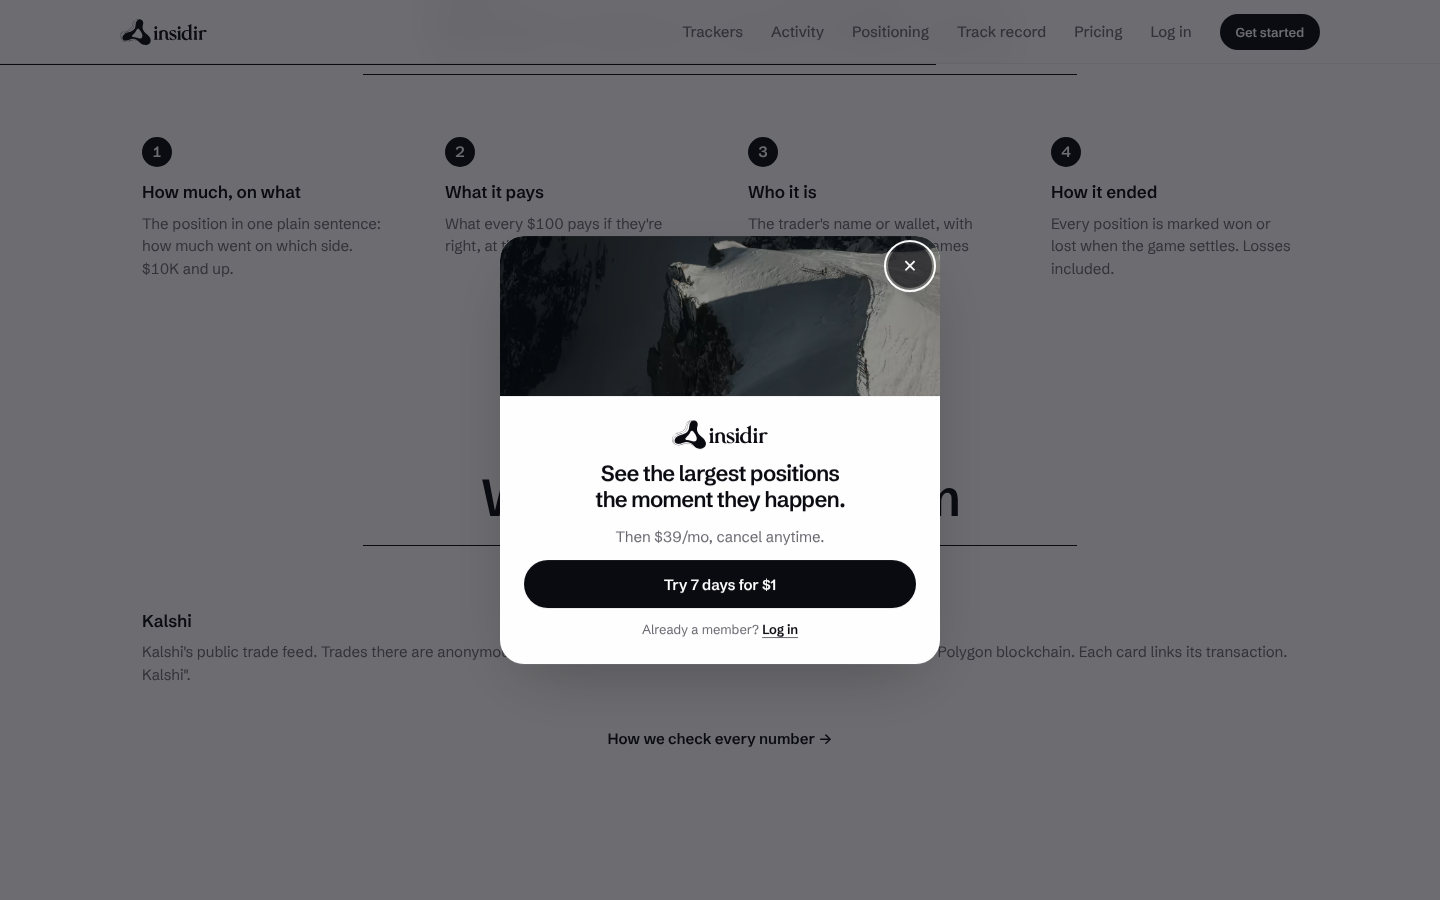
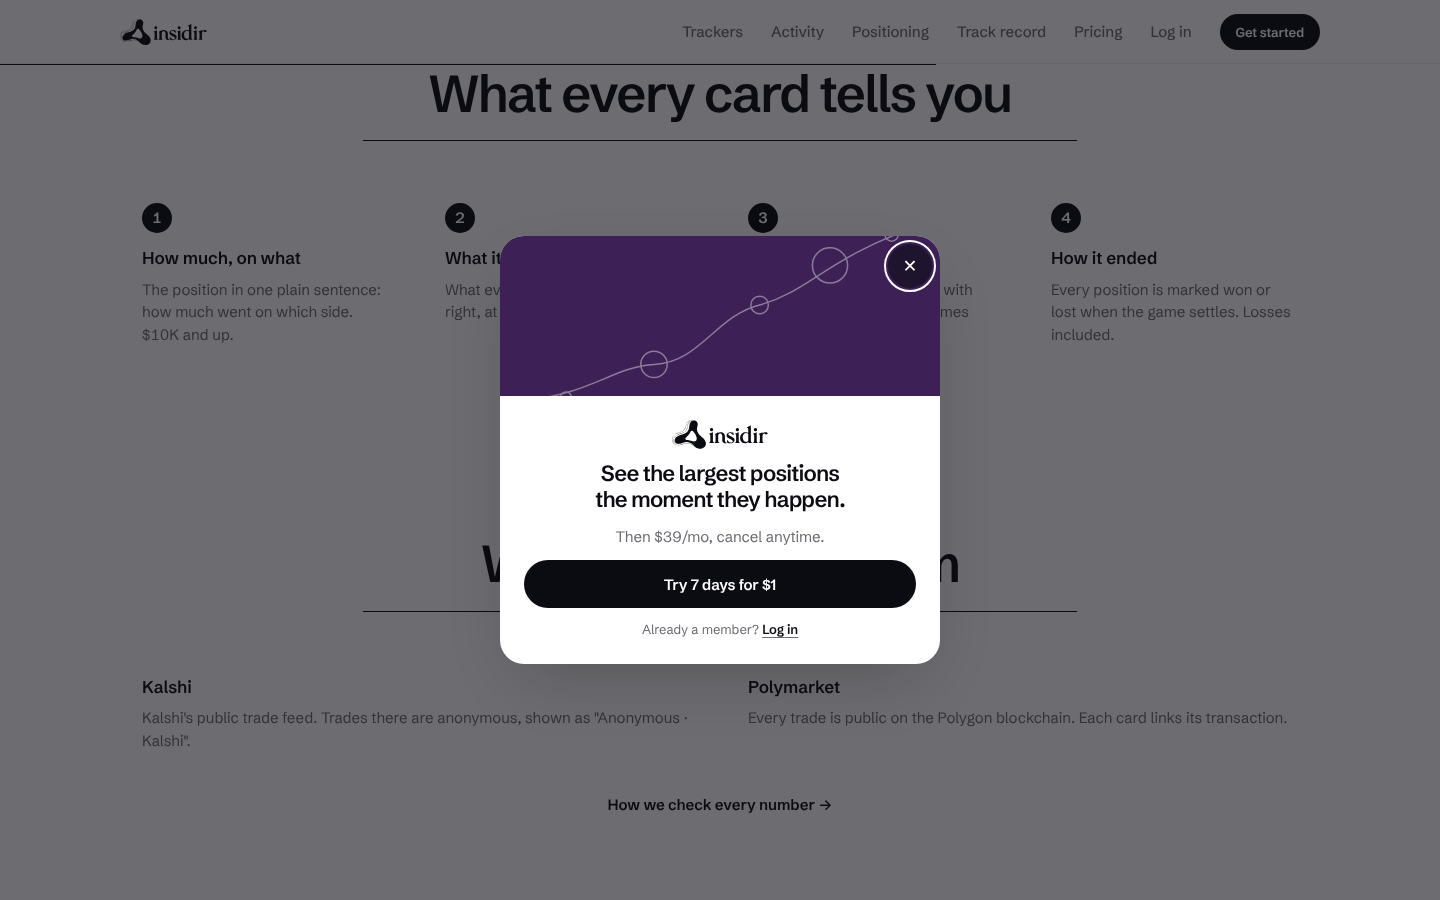
Pop-up e2e: its picture is the drawn subject, not a photo
Claude-Session: https://claude.ai/code/session_013t6J84JZmMhGSBvF6Wijt5

diff --git a/qa/e2e/v2.spec.ts b/qa/e2e/v2.spec.ts
@@ -120,7 +120,7 @@ test("sign-up pop-up: after 60% scroll or exit intent, once per visit, closes on
   await expect(popup).toContainText("Then $39/mo, cancel anytime.");
   await expect(popup.getByRole("link", { name: "Try 7 days for $1" })).toHaveAttribute("href", "/start");
   await expect(popup.getByRole("link", { name: "Log in" })).toHaveAttribute("href", "/login");
-  await expect(popup.locator("img")).toHaveCount(1);
+  await expect(popup.locator(".artpanel svg.art")).toHaveCount(1); // its picture: the product, drawn
   await expect(popup.locator("svg").first()).toBeVisible();
   // Focus starts on Get Insidir and Tab never leaves the pop-up.
   await expect(popup.getByRole("link", { name: "Try 7 days for $1" })).toBeFocused();
